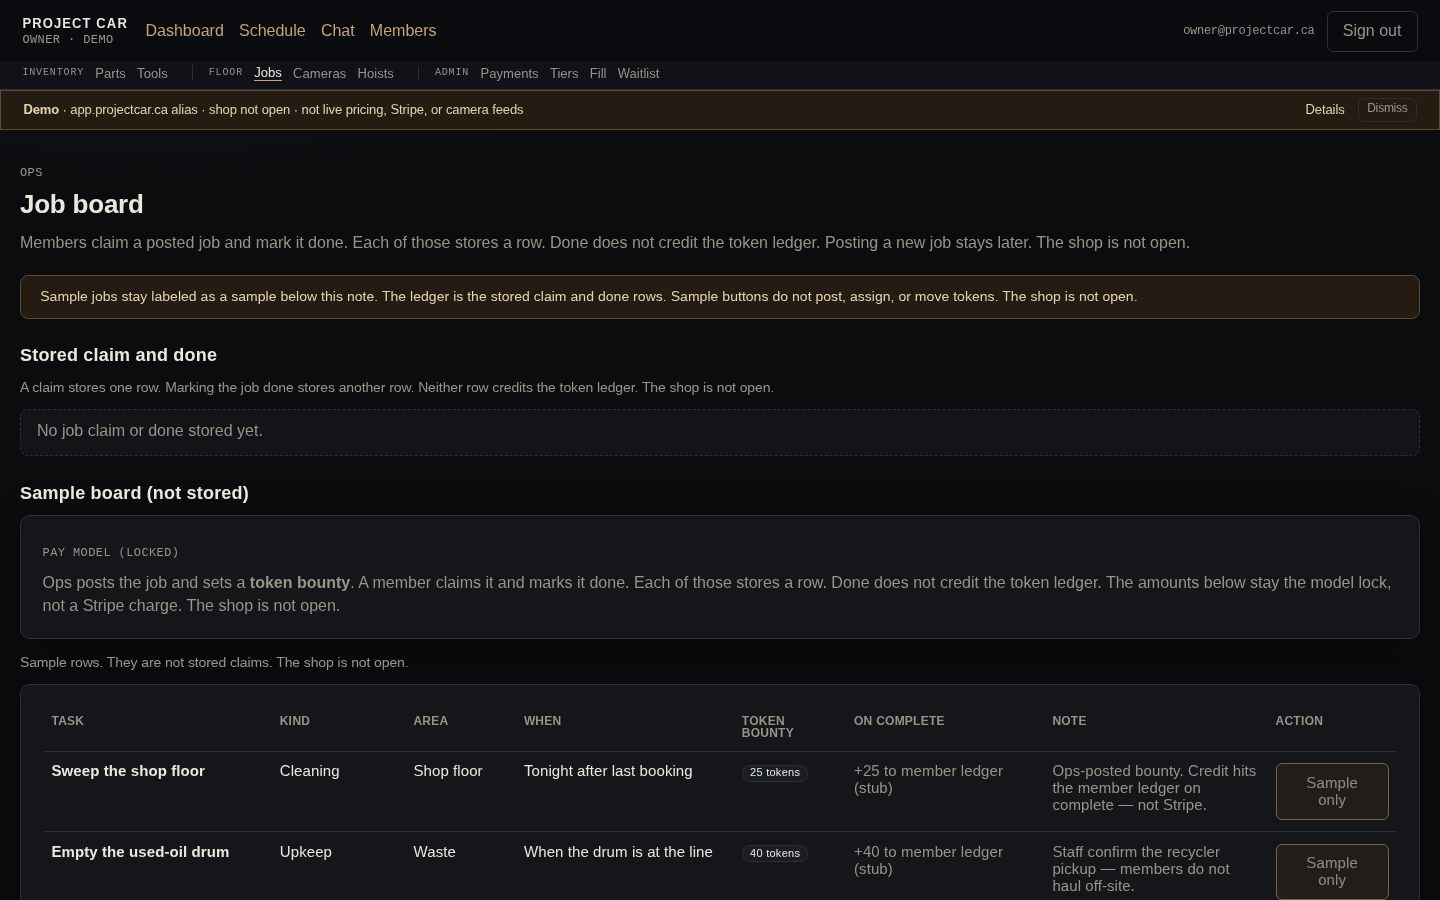
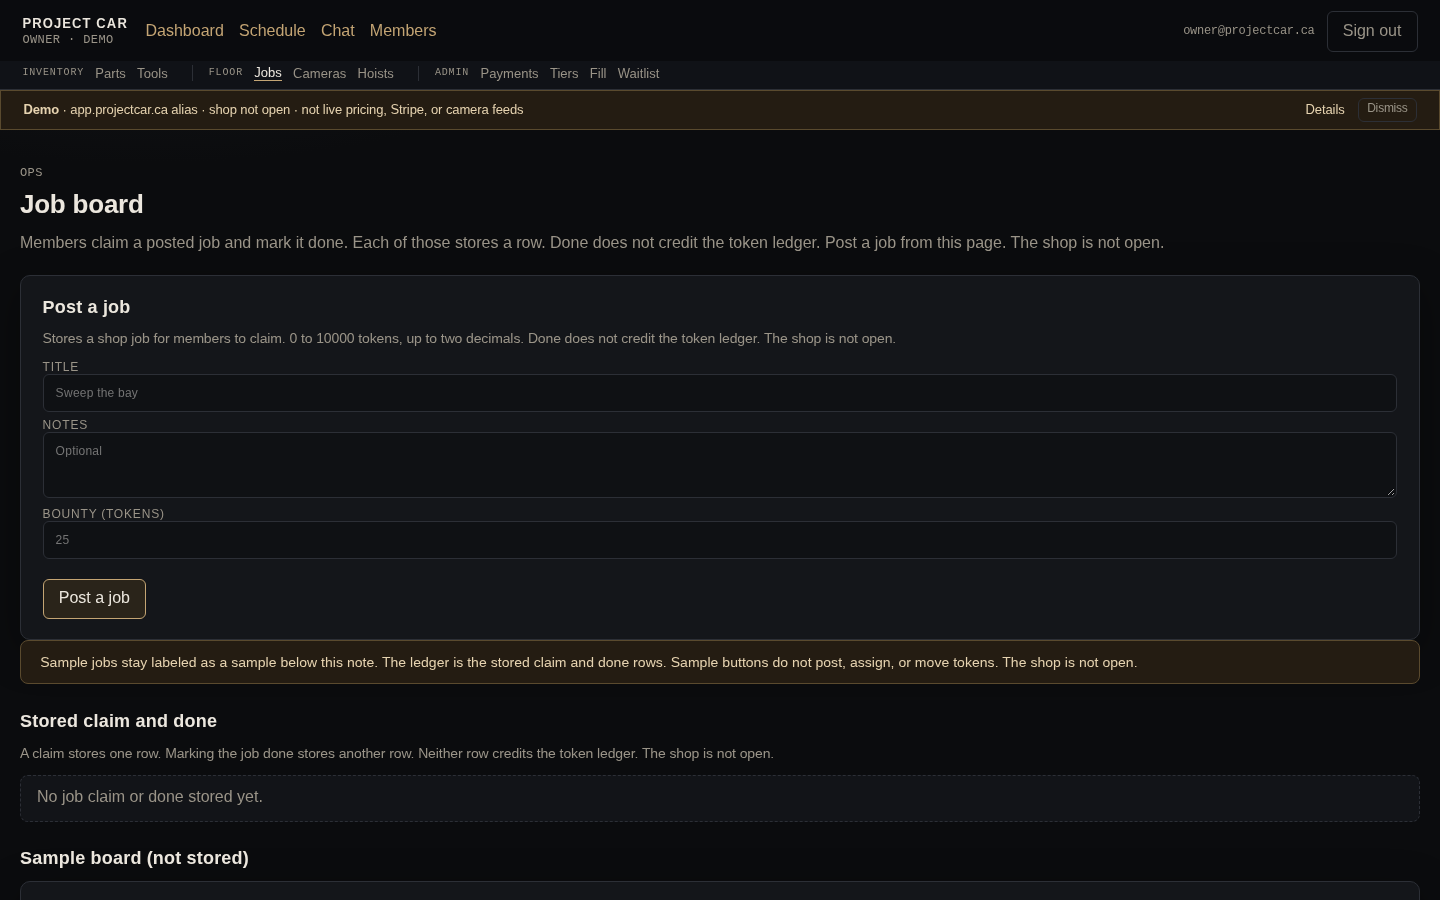
#212: GREEN fix for GB review on #212
Applies gb/drafts/project-car-pr212/diff.patch on 84562ec13818 as a new commit (no history rewrite).

diff --git a/apps/project-car/web/app/jobs/actions.ts b/apps/project-car/web/app/jobs/actions.ts
@@ -4,12 +4,12 @@ import { revalidatePath } from "next/cache";
 import { redirect } from "next/navigation";
 
 import { ShopApiError } from "../../lib/config";
-import { parseJobForm } from "../../lib/job-form";
+import { JOB_POST_FAILURE, jobErrorHref, jobPostedHref, parseJobForm } from "../../lib/job-form";
 import { createShopJob } from "../../lib/jobs-api";
 
 function bounce(error: unknown): never {
-  const message = error instanceof ShopApiError ? error.message : "Could not post the job.";
-  redirect(`/jobs?error=${encodeURIComponent(message)}`);
+  const message = error instanceof ShopApiError ? error.message : JOB_POST_FAILURE;
+  redirect(jobErrorHref(message));
 }
 
 export async function postJobAction(formData: FormData): Promise<void> {
@@ -19,7 +19,7 @@ export async function postJobAction(formData: FormData): Promise<void> {
     bounty: formData.get("bounty"),
   });
   if (!parsed.ok) {
-    redirect(`/jobs?error=${encodeURIComponent(parsed.error)}`);
+    redirect(jobErrorHref(parsed.error));
   }
   try {
     await createShopJob({
@@ -31,5 +31,5 @@ export async function postJobAction(formData: FormData): Promise<void> {
     bounce(error);
   }
   revalidatePath("/jobs");
-  redirect(`/jobs?notice=${encodeURIComponent("Job posted.")}`);
+  redirect(jobPostedHref());
 }

diff --git a/apps/project-car/web/lib/job-form.ts b/apps/project-car/web/lib/job-form.ts
@@ -59,3 +59,14 @@ export function parseJobForm(input: {
   const notes = notesRaw === null ? null : notesRaw.trim() || null;
   return { ok: true, title: titleRaw.trim(), notes, token_bounty: tokenBounty };
 }
+
+export const JOB_POSTED_NOTICE = "Job posted.";
+export const JOB_POST_FAILURE = "Could not post the job.";
+
+export function jobPostedHref(): string {
+  return `/jobs?notice=${encodeURIComponent(JOB_POSTED_NOTICE)}`;
+}
+
+export function jobErrorHref(message: string): string {
+  return `/jobs?error=${encodeURIComponent(message)}`;
+}
